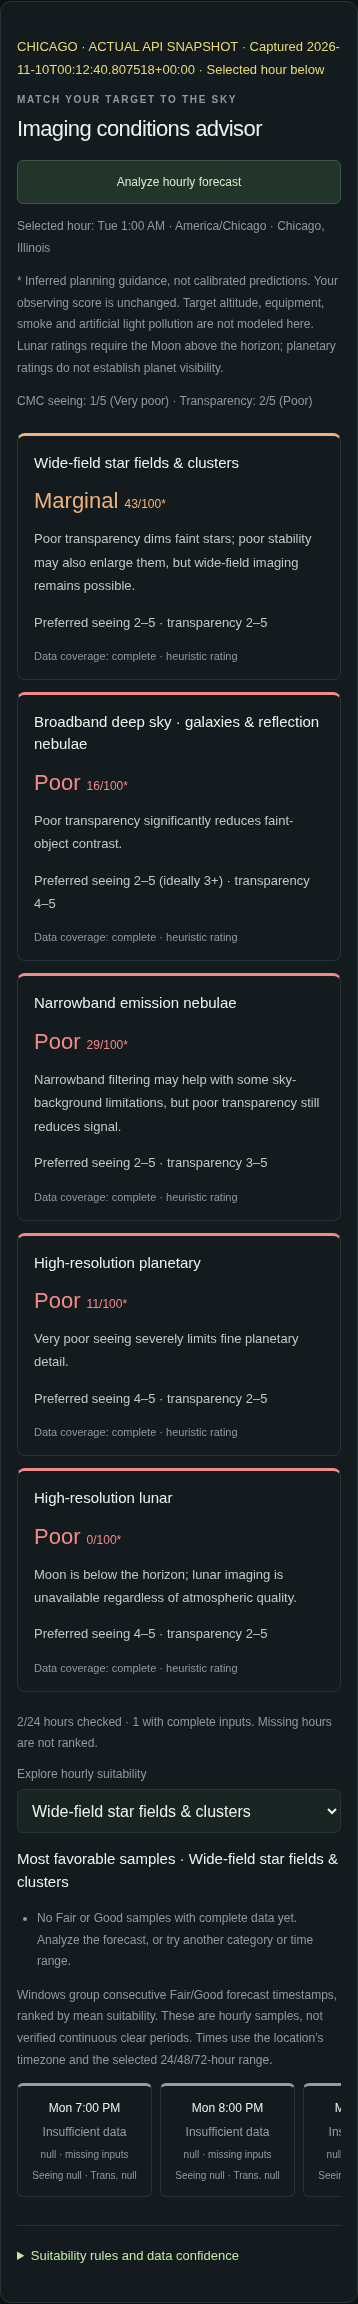
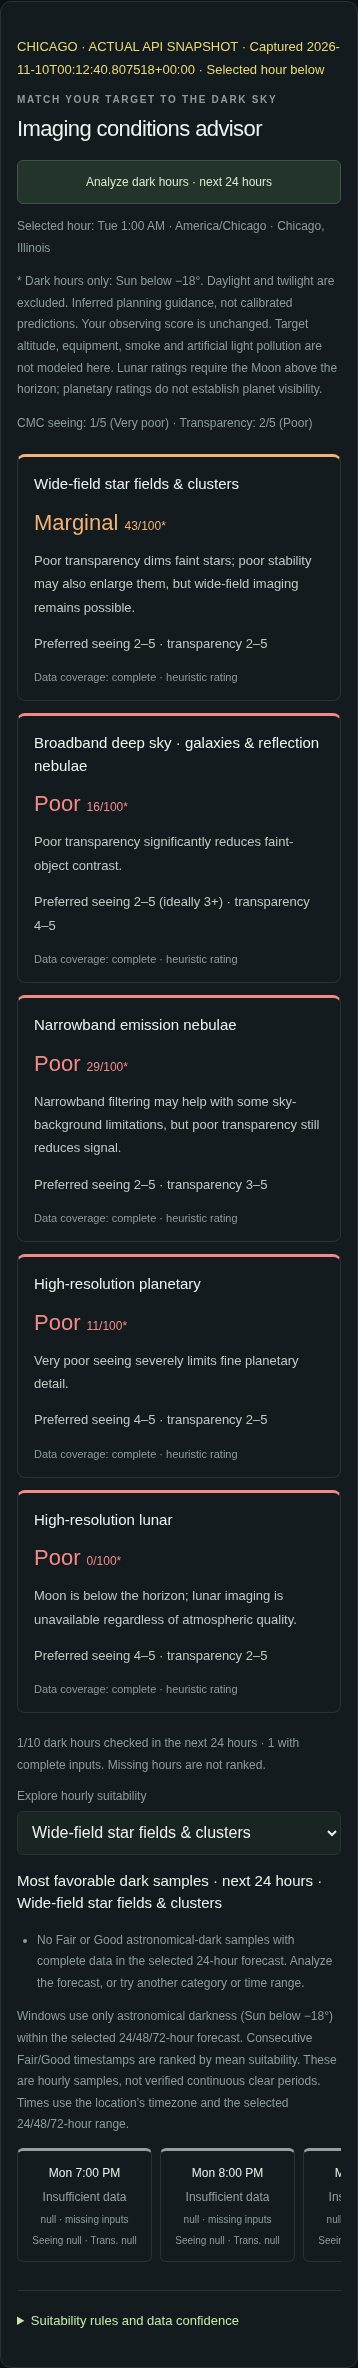
Restrict imaging advisor cards analysis and timelines to astronomical darkness

diff --git a/dist/index.html b/dist/index.html
@@ -1,7 +1,7 @@
 <!doctype html><html lang="en"><head><meta charset="utf-8"><meta name="viewport" content="width=device-width,initial-scale=1,viewport-fit=cover"><title>Nightwatch · Your sky, tonight</title><meta name="description" content="Your local 24-hour stargazing forecast, with hourly cloud cover, moonlight, and astronomical darkness."><link rel="stylesheet" href="vendor/leaflet/leaflet.css"><link rel="stylesheet" href="style.css"></head><body><header><a class="brand" href="."><span>✳</span> nightwatch<span class="brand-dot">.</span></a><div class="header-right"><span class="live-dot"></span> A little closer to the cosmos <select id="units" aria-label="Measurement units"><option value="imperial" selected>Imperial · °F / mph</option><option value="metric">Metric · °C / km/h</option></select><button id="red" aria-pressed="false" title="Dim the screen for dark adaptation">☾ <span>Night mode</span></button></div></header><main><section class="intro"><div class="eyebrow">LOOK UP. THERE’S A WHOLE UNIVERSE.</div><h1>Your sky, <em>tonight.</em></h1><p>A local forecast for your next moment under the stars.</p><div class="location-bar"><span>⌖</span><form id="search"><input id="city" aria-label="Search city" placeholder="Search a city…" autocomplete="off"><button aria-label="Search location">↗</button></form><span class="divider"></span><button id="locate">◎ Use my location</button></div><div id="results"></div><div class="location-caption"><span id="place">Flagstaff, Arizona · Example location</span><span id="updated">Connecting to the sky…</span></div></section><div id="status" role="status"></div><section class="hero"><div class="hero-copy"><div class="eyebrow"><span class="live-dot"></span> <span id="horizon-label">YOUR NEXT 24 HOURS</span></div><h2 id="headline">A night worth<br>looking up for.</h2><p id="summary">Loading your local observing conditions.</p><div class="hero-pills"><span id="best">✧ Inferred viewing scores</span><span id="dark">☾ Calculating darkness</span></div></div><div class="sky-art" aria-hidden="true"><div class="orbit o1"></div><div class="orbit o2"></div><div class="orbit o3"></div><div class="planet"></div><div class="star s1">✦</div><div class="star s2">✧</div><div class="star s3">·</div><span class="sky-label">THE NIGHT IS YOURS TO EXPLORE</span></div><div class="score"><span>VIEWING SCORE · INFERRED*</span><div><strong id="score">—</strong><small>/ 100</small></div><span id="rating">Selected-hour score · inferred*</span></div></section><section class="metrics"><article><span class="metric-icon">☁</span><div class="eyebrow">CLOUD COVER</div><strong id="cloud">—</strong><p>At the selected hour</p></article><article><span class="metric-icon">◑</span><div class="eyebrow">MOON ILLUMINATION</div><strong id="moon">—</strong><p id="phase">Calculated for tonight</p><p id="moon-card-times" class="astro-card-times"><span id="card-moonrise">Moonrise: null</span><span id="card-moonset">Moonset: null</span></p></article><article><span class="metric-icon">✧</span><div class="eyebrow">ASTRONOMICAL DARKNESS</div><strong id="darkhours">—</strong><p><span id="dark-caption">Sun below −18° · next 24 hours</span></p><p id="sun-card-times" class="astro-card-times"><span id="card-sunrise">Sunrise: null</span><span id="card-sunset">Sunset: null</span><span id="card-dusk">Astronomical dusk: null</span><span id="card-dawn">Astronomical dawn: null</span></p></article><article><span class="metric-icon">≋</span><div class="eyebrow">WIND SPEED</div><strong id="wind">—</strong><p>At the selected hour</p></article></section><section class="metrics additional"><article><div class="eyebrow">TRANSPARENCY</div><strong id="transparency">null</strong><p><span id="transparency-source">CMC data loads for the selected hour</span></p></article><article><div class="eyebrow">SEEING · CMC INDEX</div><strong id="seeing">null</strong><p><span id="seeing-source">CMC data loads for the selected hour</span></p></article><article><div class="eyebrow">RELATIVE HUMIDITY</div><strong id="humidity">null</strong><p>At the selected hour</p></article><article><div class="eyebrow">TEMPERATURE / DEW POINT</div><strong id="dewpoint">null</strong><p id="dewspread">At the selected hour</p></article></section><section class="forecast panel"><div class="section-heading"><div><div class="eyebrow">PLAN YOUR NIGHT</div><h2>The sky, hour by hour</h2></div><div class="forecast-controls"><div class="controls" role="tablist" aria-label="Forecast horizon"><button role="tab" aria-selected="true" data-range="24" class="active">24 hours</button><button role="tab" aria-selected="false" data-range="48">48 hours</button><button role="tab" aria-selected="false" data-range="72">72 hours</button></div><div class="controls"><button id="all" class="active">All hours</button><button id="night">Dark hours</button></div></div></div><div class="legend viewing-legend"><span class="viewing-key poor"><i></i>Poor · 0–39</span><span class="viewing-key marginal"><i></i>Marginal · 40–54</span><span class="viewing-key fair"><i></i>Fair · 55–69</span><span class="viewing-key good"><i></i>Good · 70–100</span><small id="zone">Times at forecast location</small></div><div class="hour-scroll"><div id="hours" class="hours"><p>Fetching hourly forecast…</p></div></div><p class="precipitation-method">Precipitation amounts are 1-hour totals ending at the shown hour, including liquid-equivalent snow. The percentage is precipitation chance; missing amounts or chances remain null.</p><p id="condensation-method" class="condensation-method"></p><p class="score-footnote">* Viewing score is inferred using a custom, uncalibrated formula: clouds 60%, humidity 15%, wind 10%, and moonlight 15%, reduced during twilight and set to zero in daylight. It is not a CMC forecast or a measurement of seeing or transparency. It excludes light pollution and smoke. Missing inputs return null. <button id="score-method">View the formula ↗</button></p><p id="cmc-status" class="cmc-status" role="status"></p><div id="detail" class="detail">Select an hour to explore its conditions.</div></section><section class="panel imaging-panel" id="imaging-panel" aria-labelledby="imaging-title">
-<div class="section-heading"><div><div class="eyebrow">MATCH YOUR TARGET TO THE SKY</div><h2 id="imaging-title">Imaging conditions advisor</h2></div><div class="map-actions"><button id="imaging-analyze">Analyze hourly forecast</button><button id="imaging-cancel" hidden>Stop analysis</button></div></div>
+<div class="section-heading"><div><div class="eyebrow">MATCH YOUR TARGET TO THE DARK SKY</div><h2 id="imaging-title">Imaging conditions advisor</h2></div><div class="map-actions"><button id="imaging-analyze">Analyze hourly forecast</button><button id="imaging-cancel" hidden>Stop analysis</button></div></div>
 <p id="imaging-time" class="imaging-note">Waiting for the forecast location…</p>
-<p class="imaging-note">* Inferred planning guidance, not calibrated predictions. Your observing score is unchanged. Target altitude, equipment, smoke and artificial light pollution are not modeled here. Lunar ratings require the Moon above the horizon; planetary ratings do not establish planet visibility.</p>
+<p class="imaging-note">* Dark hours only: Sun below −18°. Daylight and twilight are excluded. Inferred planning guidance, not calibrated predictions. Your observing score is unchanged. Target altitude, equipment, smoke and artificial light pollution are not modeled here. Lunar ratings require the Moon above the horizon; planetary ratings do not establish planet visibility.</p>
 <p id="imaging-inputs" class="imaging-note">CMC seeing: null · Transparency: null</p>
 <div id="imaging-cards" class="imaging-cards"></div>
 <p id="imaging-progress" class="imaging-note" role="status">Hourly CMC analysis loads on request using the existing forecast provider.</p>

diff --git a/dist/imaging-ui.js b/dist/imaging-ui.js
@@ -6,19 +6,19 @@ const $=id=>document.getElementById(id),escape=s=>String(s).replace(/[&<>"']/g,c
 function input(h,index){return {...h,index,seeing:h.cmc?.seeing?.data?.value??null,transparency:h.cmc?.transparency?.data?.value??null}}
 function render(state,horizon,selected,format,onSelect){
  context={state,horizon,selected,format,onSelect};
- const hours=state.hours.slice(0,horizon).map(input),h=hours[selected],ratings=NightwatchImaging.analyze(h);
+ const allHours=state.hours.slice(0,horizon).map(input),h=allHours[selected],hours=allHours.filter(NightwatchImaging.isDark),selectedDark=NightwatchImaging.isDark(h),ratings=selectedDark?NightwatchImaging.analyze(h):[];
  $('imaging-time').textContent='Selected hour: '+format(h.date)+' · '+state.zone+' · '+state.name;
  const indexText=v=>Number.isInteger(v)&&v>=0&&v<=5?v+'/5 ('+NightwatchImaging.config.indexLabels[v]+')':'null (unavailable)';
- $('imaging-inputs').textContent='CMC seeing: '+indexText(h.seeing)+' · Transparency: '+indexText(h.transparency);
+ $('imaging-inputs').textContent=selectedDark?'CMC seeing: '+indexText(h.seeing)+' · Transparency: '+indexText(h.transparency):hours.length?'The selected weather hour is outside astronomical darkness. Choose a dark hour below to view imaging advice.':'No astronomical-dark hours in the selected '+horizon+'-hour forecast. Try a longer forecast range.';
  const preferred=id=>{const p=NightwatchImaging.config.categories[id].preferred;return 'Preferred seeing '+p.seeing.join('–')+(p.seeingIdeal?' (ideally '+p.seeingIdeal+'+)':'')+' · transparency '+p.transparency.join('–');};
  $('imaging-cards').innerHTML=ratings.map(r=>'<article class="imaging-card imaging-'+r.band+'"><h3>'+escape(r.label)+'</h3><div class="imaging-rating">'+r.rating+(r.score===null?'':' <small>'+r.score+'/100*</small>')+'</div><p>'+escape(r.explanation)+'</p><p class="imaging-preferences">'+preferred(r.id)+'</p><small>Data coverage: '+(r.confidence==='complete'?'complete · heuristic rating':'incomplete · confidence insufficient')+'</small></article>').join('');
  const done=hours.filter(h=>h.cmc).length,complete=hours.filter(h=>NightwatchImaging.analyze(h)[0].score!==null).length;
- $('imaging-progress').textContent=(state.imagingRunning?'Analyzing CMC hourly forecasts… ':'')+done+'/'+horizon+' hours checked · '+complete+' with complete inputs. Missing hours are not ranked.';
- $('imaging-analyze').disabled=!!state.imagingRunning;$('imaging-cancel').hidden=!state.imagingRunning;
+ $('imaging-progress').textContent=(state.imagingRunning?'Analyzing CMC hourly forecasts… ':'')+done+'/'+hours.length+' dark hours checked in the next '+horizon+' hours · '+complete+' with complete inputs. Missing hours are not ranked.';
+ $('imaging-analyze').disabled=!!state.imagingRunning||!hours.length;$('imaging-analyze').textContent='Analyze dark hours · next '+horizon+' hours';$('imaging-cancel').hidden=!state.imagingRunning;
  const groups=NightwatchImaging.windows(hours,category);
  $('imaging-window-title').textContent='Most favorable dark samples · next '+horizon+' hours · '+NightwatchImaging.config.categories[category].label;
  $('imaging-windows').innerHTML=groups.length?groups.map(g=>'<li><button data-imaging-hour="'+g.indices[0]+'">'+escape(format(new Date(g.start)))+(g.end!==g.start?' through '+escape(format(new Date(g.end))):'')+'</button><span>'+g.scores.length+' hourly sample'+(g.scores.length===1?'':'s')+' · average '+g.average+'/100*</span></li>').join(''):'<li>No Fair or Good astronomical-dark samples with complete data in the selected '+horizon+'-hour forecast. Analyze the forecast, or try another category or time range.</li>';
- $('imaging-hours').innerHTML=hours.map((h,i)=>{const r=NightwatchImaging.analyze(h).find(r=>r.id===category);return '<button class="imaging-sample imaging-'+r.band+(i===selected?' selected':'')+'" data-imaging-hour="'+i+'" aria-pressed="'+(i===selected)+'"><span>'+escape(format(h.date))+'</span><strong>'+r.rating+'</strong><small>'+(r.score===null?'null · missing inputs':r.score+'/100*')+'</small><small>Seeing '+(h.seeing??'null')+' · Trans. '+(h.transparency??'null')+'</small></button>'}).join('');
+ $('imaging-hours').innerHTML=hours.length?hours.map(h=>{const r=NightwatchImaging.analyze(h).find(r=>r.id===category);return '<button class="imaging-sample imaging-'+r.band+(h.index===selected?' selected':'')+'" data-imaging-hour="'+h.index+'" aria-pressed="'+(h.index===selected)+'"><span>'+escape(format(h.date))+'</span><strong>'+r.rating+'</strong><small>'+(r.score===null?'null · missing inputs':r.score+'/100*')+'</small><small>Seeing '+(h.seeing??'null')+' · Trans. '+(h.transparency??'null')+'</small></button>'}).join(''):'<p class="imaging-note">No astronomical-dark imaging periods in this forecast range.</p>';
 }
 $('imaging-category').onchange=e=>{category=e.target.value;if(context){const {state,horizon,selected,format,onSelect}=context;render(state,horizon,selected,format,onSelect)}};
 $('imaging-panel').addEventListener('click',e=>{const button=e.target.closest('[data-imaging-hour]');if(button&&context)context.onSelect(Number(button.dataset.imagingHour))});

diff --git a/dist/imaging-advisor.js b/dist/imaging-advisor.js
@@ -23,6 +23,7 @@ const config={
  cmcCloudFactor:[.1,1,1,1,1,1],lowMoonAltitude:20,lowMoonFactor:.8
 };
 const valid=v=>typeof v==='number'&&Number.isFinite(v);
+const isDark=h=>!!h&&valid(h.sun)&&h.sun<-18;
 function curve(points,x){if(x<=points[0][0])return points[0][1];for(let i=1;i<points.length;i++){const [a,b]=points[i-1],[c,d]=points[i];if(x<=c)return b+(d-b)*(x-a)/(c-a)}return points.at(-1)[1]}
 function band(score,c=config){return !valid(score)?'unavailable':score>=c.bands.good?'good':score>=c.bands.fair?'fair':score>=c.bands.marginal?'marginal':'poor'}
 const labels={good:'Good',fair:'Fair',marginal:'Marginal',poor:'Poor',unavailable:'Insufficient data'};
@@ -64,7 +65,8 @@ function analyze(h={},c=config){
   const modifiers={cloud:curve(c.curves.cloud,h.cloud),wind:curve(c.curves.wind,h.wind),dew:Math.min(curve(c.curves.humidity,h.humidity),curve(c.curves.spread,h.temp-h.dew)),cmcCloud:c.cmcCloudFactor[h.seeing]*c.cmcCloudFactor[h.transparency],night:spec.detail?1:curve(c.curves.night,h.sun),moon:spec.moonFloor===undefined||h.moonAlt<=0?1:1-(1-spec.moonFloor)*h.moonIllum,moonAltitude:spec.moonRequired&&h.moonAlt>0&&h.moonAlt<c.lowMoonAltitude?c.lowMoonFactor:1};
   let raw=atmospheric*Object.values(modifiers).reduce((a,b)=>a*b,1);
   if(spec.moonRequired&&h.moonAlt<=0)raw=0;
-  const reason=explain(id,h,spec,components,atmospheric,modifiers);
+  let reason=explain(id,h,spec,components,atmospheric,modifiers);
+  if(!isDark(h)){raw=0;reason={dominantLimitation:h.sun>=0?'daylight':'twilight',explanation:h.sun>=0?'Daylight is outside this dark-hours imaging advisor; daytime suitability is Poor.':'Twilight is outside this advisor; choose astronomical darkness (Sun below −18°).'};}
   const score=Math.round(Math.max(0,Math.min(100,raw))),quality=band(score,c);
   return {...base,score,band:quality,rating:labels[quality],...reason,components,atmospheric,modifiers};
  });
@@ -72,11 +74,11 @@ function analyze(h={},c=config){
 // Windows contain consecutive forecast samples, not guaranteed continuous conditions.
 function windows(hours,id,c=config){
  const groups=[];let group=null;
- for(const h of hours){const r=analyze(h,c).find(r=>r.id===id),t=+h.date;if(!valid(t)||!valid(h.sun)||h.sun>=-18||r.score===null||r.score<c.bands.fair){group=null;continue;}
+ for(const h of hours){const r=analyze(h,c).find(r=>r.id===id),t=+h.date;if(!valid(t)||!isDark(h)||r.score===null||r.score<c.bands.fair){group=null;continue;}
   if(!group||t-group.end!==3600000){group={start:t,end:t,scores:[],indices:[]};groups.push(group)}
   group.end=t;group.scores.push(r.score);group.indices.push(h.index);
  }
  return groups.map(g=>({...g,average:Math.round(g.scores.reduce((a,b)=>a+b,0)/g.scores.length)})).sort((a,b)=>b.average-a.average||b.scores.length-a.scores.length||a.start-b.start).slice(0,3);
 }
-root.NightwatchImaging={config,analyze,windows,curve,band};
+root.NightwatchImaging={config,analyze,windows,curve,band,isDark};
 })(typeof window!=='undefined'?window:globalThis);

diff --git a/dist/app.js b/dist/app.js
@@ -43,7 +43,7 @@ async function loadCMC(s,h){
 function renderImaging(){if(state)NightwatchImagingUI.render(state,horizon,selected,fmt,i=>{selected=i;if(nightOnly&&state.hours[i].sun>=-18){nightOnly=false;$('all').classList.add('active');$('night').classList.remove('active');}renderHours()})}
 $('imaging-analyze').onclick=async()=>{
  if(!state)return;const s=state,range=horizon,run=++imagingRun;s.imagingRunning=true;renderImaging();
- try{for(const h of s.hours.slice(0,range)){if(run!==imagingRun||state!==s||horizon!==range)break;await loadCMC(s,h);}}
+ try{for(const h of s.hours.slice(0,range).filter(NightwatchImaging.isDark)){if(run!==imagingRun||state!==s||horizon!==range)break;await loadCMC(s,h);}}
  finally{if(run===imagingRun){s.imagingRunning=false;if(state===s)renderImaging();}}
 };
 $('imaging-cancel').onclick=()=>{imagingRun++;if(state){state.imagingRunning=false;renderImaging();}};

diff --git a/docs/imaging-advisor.md b/docs/imaging-advisor.md
@@ -57,12 +57,12 @@ Piecewise-linear factor curves interpolate between the following `(input, factor
 
 - `dew = min(RH factor, dew-spread factor)`: choose the more adverse indicator rather than multiply two correlated moisture measures. This is equipment-risk guidance, not a surface-condensation forecast. Missing moisture inputs produce insufficient data.
 - `cmcCloud`: each CMC index contributes `[.1, 1, 1, 1, 1, 1]`. A zero explicitly means modeled cloudy sky and remains adverse even if Open-Meteo reports clear sky. This is not nodata or simply poor turbulence.
-- `night`: deep-sky categories use the Sun-altitude curve. Planetary/lunar use 1 because darkness is less critical; planet visibility is not assessed.
+- `night`: within the allowed astronomical-dark subset, deep-sky categories use the Sun-altitude curve and planetary/lunar use 1. The scope restriction below overrides all categories outside darkness; planet visibility is not assessed.
 - `moon`: when the Moon is up, `1 − (1 − moonFloor) × illuminatedFraction`. Floors: wide-field .8, broadband .6, narrowband .95. When the Moon is down, use 1. Planetary/lunar use 1. These do not account for target–Moon separation, filter bandwidth or scattering.
 - `moonAltitude`: lunar only, .8 for Moon altitude >0° and <20°, otherwise 1.
 - Lunar requires Moon altitude >0°. A Moon at/below the horizon yields score 0 with an explicit unavailability explanation. This geometry requirement is distinct from soft weather preferences.
 
-Round the clamped final 0–100 result: Good ≥70, Fair 55–69, Marginal 40–54, Poor <40. Missing required data yields null / Insufficient data, never a favorable default. Band thresholds are configurable and independent of the unchanged observing score.
+Round the clamped final 0–100 result: Good ≥70, Fair 55–69, Marginal 40–54, Poor <40. Missing required data yields null / Insufficient data, never a favorable default. With complete inputs, daylight and twilight (Sun altitude ≥−18°) explicitly score 0 / Poor for every category, including planetary and lunar. This is the advisor’s nighttime-planning scope, not a claim that real-world daytime lunar/planetary photography is impossible. Band thresholds are configurable and independent of the unchanged observing score.
 
 ### Required combination regression cases
 
@@ -82,7 +82,7 @@ Production always reads the selected location's actual hourly Open-Meteo forecas
 
 These curves and weights are the proposed first-pass matrix, **not a universal astronomical imaging standard or empirical calibration**. Compare logged forecasts with imaging sessions before changing utilities, atmospheric weights or weather modifiers. `analyze()` returns the atmospheric component utilities, atmosphere score and individual modifiers to make those comparisons inspectable. CMC indices already reflect some cloud/moisture effects, so factors are heuristic and not independent probabilities.
 
-Narrowband's relative tolerance to artificial light is a general property; no light-pollution correction is computed here. Equipment, tracking, planet/target altitude and visibility (except Moon), atmospheric dispersion, filters, local smoke/aerosols and optical-surface temperature are not included. A daytime planetary rating describes atmospheric quality, not safe target visibility or solar observing instructions.
+Narrowband's relative tolerance to artificial light is a general property; no light-pollution correction is computed here. Equipment, tracking, planet/target altitude and visibility (except Moon), atmospheric dispersion, filters, local smoke/aerosols and optical-surface temperature are not included. Daylight and twilight imaging are outside this advisor’s scope.
 
 ## Category-specific explanations
 
@@ -94,7 +94,7 @@ The wording describes stars for wide-field, faint-object contrast for broadband,
 
 ## Hourly analysis and request behavior
 
-The weather chart, selected map hour and imaging timeline share the 72 calendar-hour periods beginning with the selected location’s current local hour, including timezone/DST handling. The selected hour uses existing lazy CMC requests. “Analyze hourly forecast” explicitly loads the selected 24/48/72 timestamps, two provider fields per hour, through the existing two-request concurrency limiter and exact-time/run cache. It does not request new weather sources or modify the observing score. Progress distinguishes hours checked from hours with complete inputs. Analysis can be stopped; changing location or horizon stops scheduling further hours. An in-flight request may finish and populate only its original hour/location. Selected-hour and analysis requests share a per-hour promise. Provider failures remain null.
+The weather chart retains all 72 calendar-hour periods beginning with the selected location’s current local hour. The imaging advisor filters that shared timeline to astronomical darkness (Sun strictly below −18°), preserving original hour indices and timezone/DST handling. Its cards, hourly strip, favorable windows, progress counts and batch requests use only dark hours within the selected 24/48/72-hour range. Selecting a daytime/twilight weather hour hides imaging cards and asks the user to choose a dark hour; it never silently substitutes another hour. If no dark hours exist, the advisor shows an explicit empty state and disables analysis, while all weather hours remain available. The selected hour uses existing lazy CMC requests. “Analyze dark hours” explicitly loads only eligible dark timestamps within the selected 24/48/72 periods, two provider fields per hour, through the existing two-request concurrency limiter and exact-time/run cache. It does not request new weather sources or modify the observing score. Progress distinguishes dark hours checked from dark hours with complete inputs. Analysis can be stopped; changing location or horizon stops scheduling further hours. An in-flight request may finish and populate only its original hour/location. Selected-hour and analysis requests share a per-hour promise. Provider failures remain null.
 
 The category selector updates an hourly strip and up to three best windows. A window groups **consecutive hourly timestamps in astronomical darkness (Sun altitude strictly below −18°)** with complete data and a Fair/Good rating (≥55), never bridging daylight, twilight, missing or adverse hours. This dark-only restriction applies to all five categories, including planetary and lunar, without changing their suitability scores. Candidates are sliced to the selected 24/48/72-hour forecast before grouping/ranking; the heading displays that range. Rank by mean score, then sample count, then earliest timestamp. Start/end are the first/last **sample timestamps**, not guaranteed continuous observing intervals. A single timestamp is a single sample. Clicking a window/sample selects the corresponding original forecast hour; selecting a daylight sample exits the dark-only filter. Results use the forecast location's timezone. Availability and horizon gaps are visible, not extrapolated. Partially analyzed ranges may change their ranking as additional hours load.
 

diff --git a/README.md b/README.md
@@ -105,3 +105,5 @@ The feature adds five selected-hour imaging suitability ratings and on-demand 24
 On forecast load, the shared 72-period timeline begins at the start of the **selected location’s current calendar hour**, not the next hour or the device’s hour. At 8:01, 8:30 and 8:59 PM, the first period remains 8:00 PM. The 24/48/72 tabs, weather chart, selected map hour, imaging cards/timeline and favorable samples share those timestamps. `dist/forecast-time.js` uses IANA timezone calendar boundaries, including fractional UTC offsets, repeated/missing daylight-saving hours and partial hours during 30-minute DST shifts. Nonexistent hours are skipped; repeated hours retain distinct UTC instants.
 
 Weather values are still looked up by the provider’s **exact Unix timestamp**. A missing current period or missing provider value stays null; the app never substitutes the following hour, interpolates values, or alters scores. There are still 72 periods, sliced to 24/48/72 as selected. Sun/Moon geometry uses each actual period timestamp; the darkness total and milestone cards retain their separate forward-from-now horizon. Most zones have 60-minute periods; rare partial-hour timezone transitions can produce a shorter/longer calendar period. Existing one-hour precipitation totals retain their provider meaning (ending at the timestamp), rather than becoming totals over the current partial period.
+
+The Imaging Conditions Advisor is limited to astronomical darkness (Sun below −18°) within the selected forecast range. Daylight/twilight selections hide imaging cards and show a prompt to choose a dark hour. With complete data, out-of-scope daylight/twilight scores are Poor (0), including planetary and lunar; missing data remains insufficient. The main weather chart keeps all hours.
